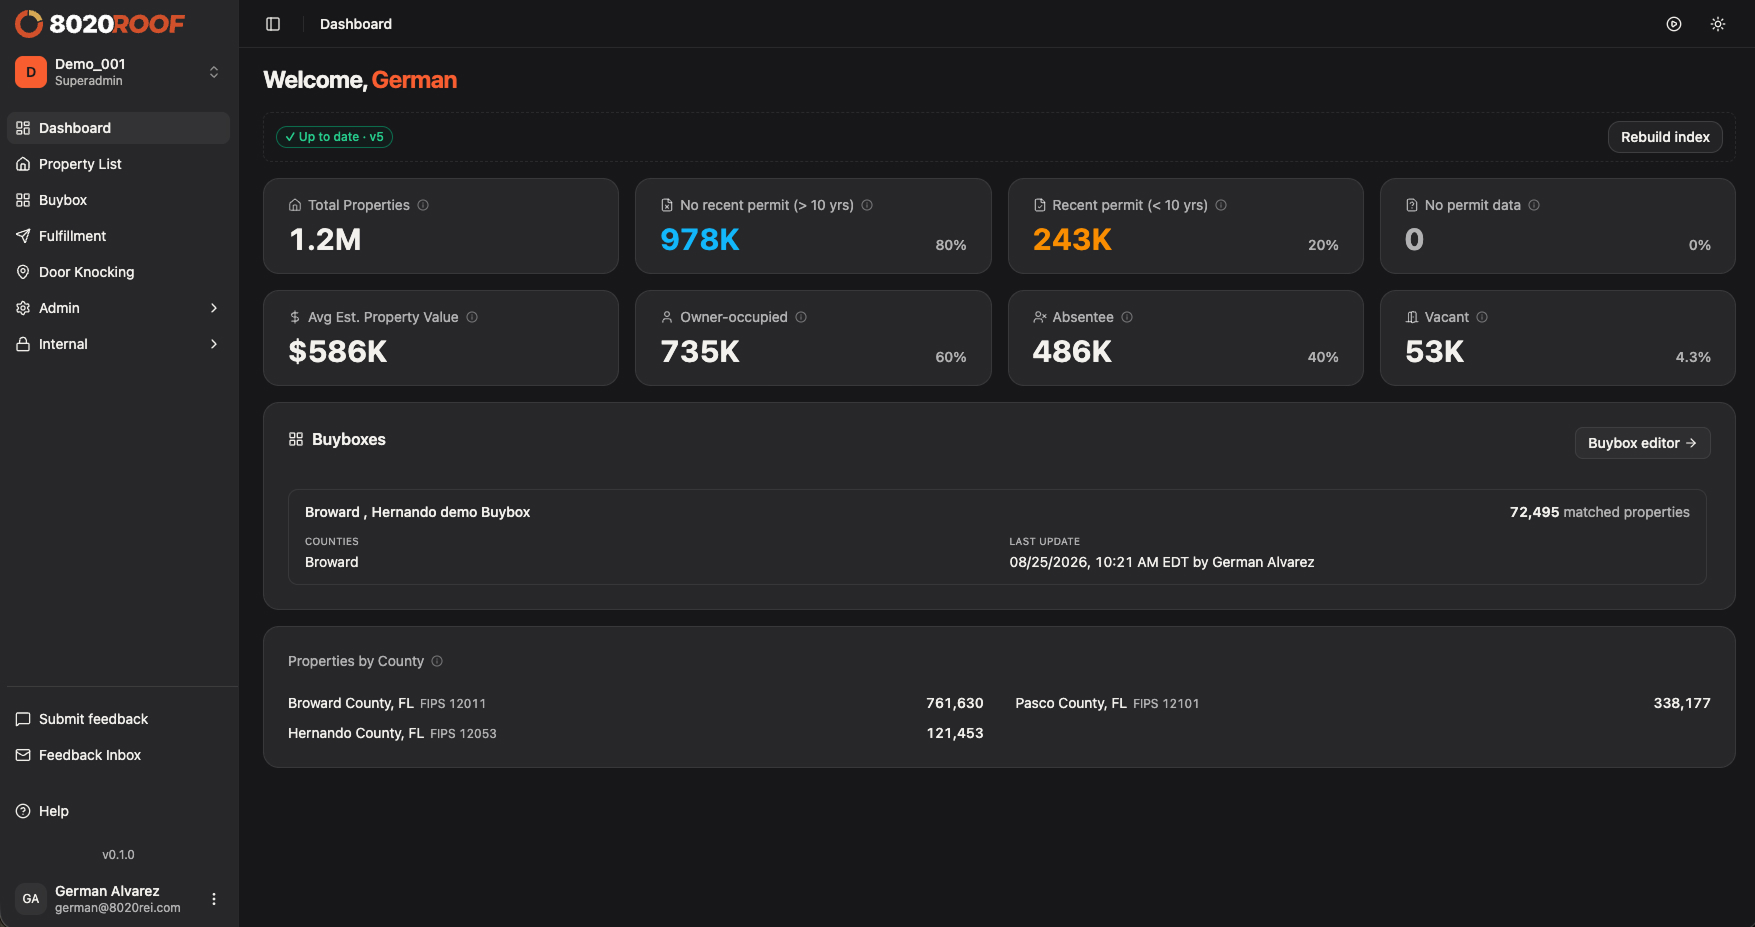
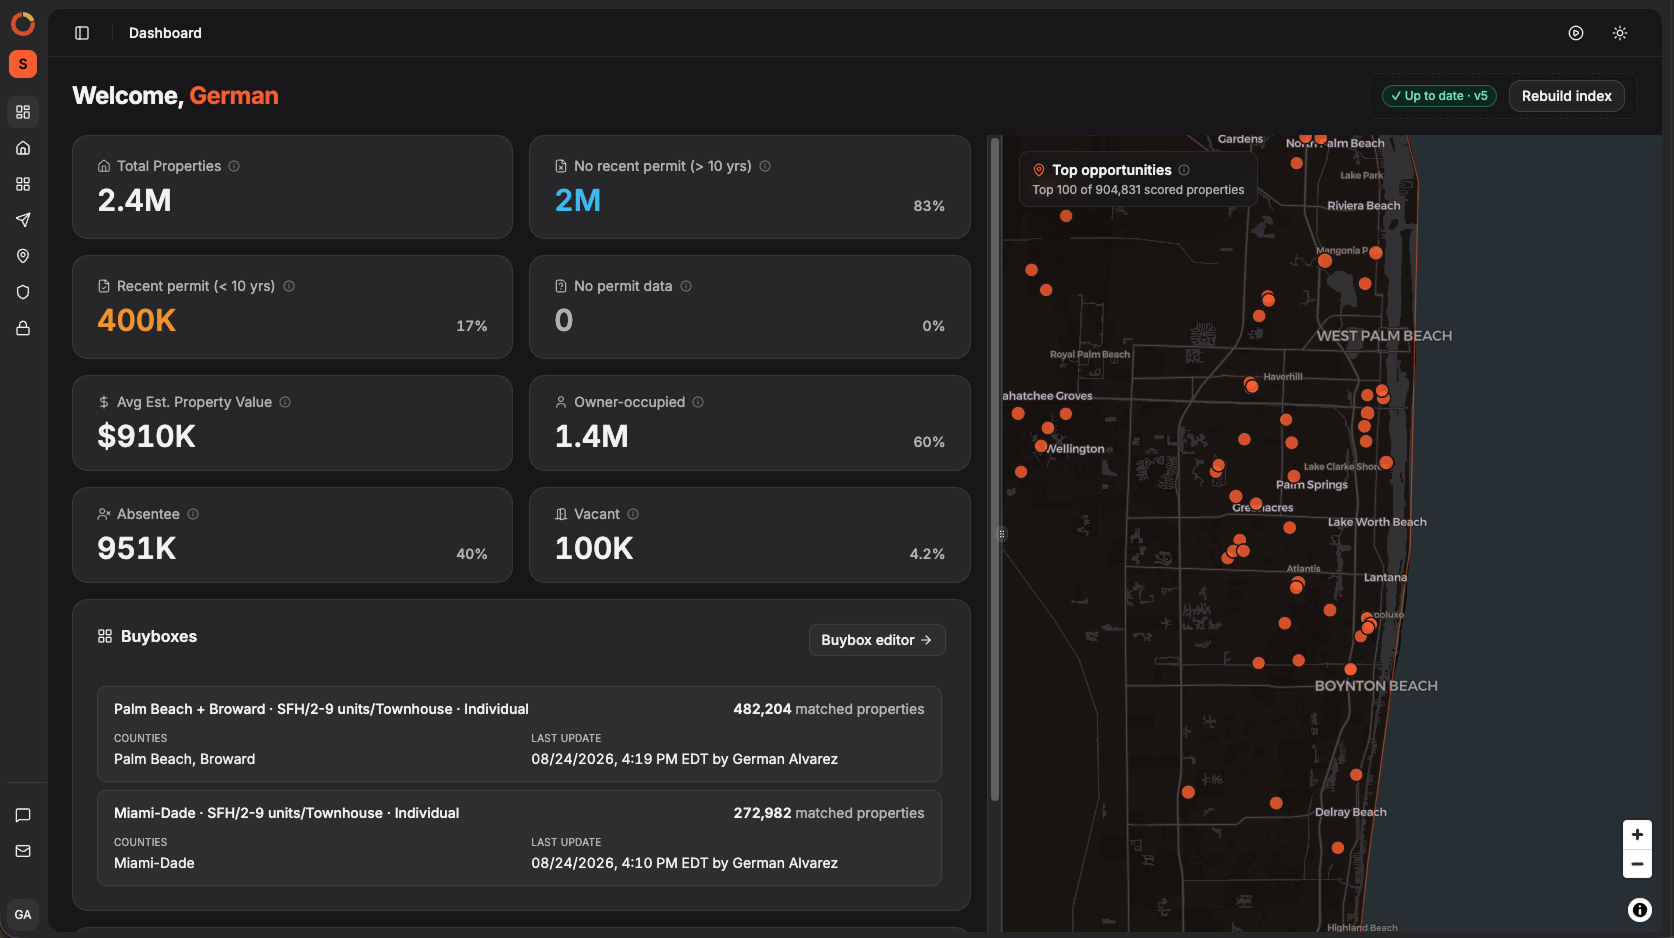
Update 8020 Roof project imagery

diff --git a/constants.ts b/constants.ts
@@ -35,7 +35,7 @@ import nowApp03 from './assets/projects/now-app/03.jpg';
 import nowApp04 from './assets/projects/now-app/04.jpg';
 import nowApp05 from './assets/projects/now-app/05.jpg';
 import nowApp06 from './assets/projects/now-app/06.jpg';
-import roof000 from './assets/projects/8020roof/000.webp';
+import roof000 from './assets/projects/8020roof/new images/000-cover.jpg';
 import roofDashboard from './assets/projects/8020roof/new images/001.jpg';
 import roofPropertyList from './assets/projects/8020roof/new images/002.jpg';
 import roofPropertyView from './assets/projects/8020roof/new images/003.jpg';
